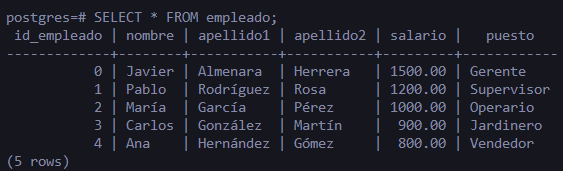
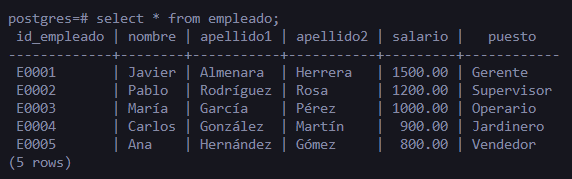
Añadidos los nuevos id's

diff --git a/README.md b/README.md
@@ -63,15 +63,16 @@ CREATE TYPE puesto_enum AS ENUM (
 );
 
 CREATE TABLE viveros (
-  id_vivero SERIAL PRIMARY KEY,
+  id_vivero VARCHAR(5) PRIMARY KEY,  -- Código de 5 dígitos
   latitud DECIMAL(9,6) NOT NULL CHECK (latitud >= -90 AND latitud <= 90),  -- Latitud válida
   longitud DECIMAL(9,6) NOT NULL CHECK (longitud >= -180 AND longitud <= 180),  -- Longitud válida
   nombre VARCHAR(100) NOT NULL
+  CONSTRAINT id_vivero_valido CHECK (id_vivero ~ '^V[0-9]{4}$')  -- Código de 5 dígitos
 );
 
 CREATE TABLE zona (
-  id_zona SERIAL,
-  id_vivero INT,
+  id_zona VARCHAR(5) CHECK (id_zona ~ '^Z[0-9]{4}$'),  -- Código de 5 dígitos
+  id_vivero VARCHAR(5) CHECK (id_vivero ~ '^V[0-9]{4}$'),  -- Código de 5 dígitos
   nombre VARCHAR(100) NOT NULL,
   latitud DECIMAL(9,6) NOT NULL CHECK (latitud >= -90 AND latitud <= 90),  -- Latitud válida
   longitud DECIMAL(9,6) NOT NULL CHECK (longitud >= -180 AND longitud <= 180),  -- Longitud válida
@@ -80,14 +81,15 @@ CREATE TABLE zona (
 );
 
 CREATE TABLE producto (
-  id_producto SERIAL PRIMARY KEY,
+  id_producto VARCHAR(5) PRIMARY KEY CHECK (id_producto ~ '^P[0-9]{4}$'),  -- Código de 5 dígitos
   cantidad INT CHECK(cantidad >= 0),
   precio DECIMAL(10,2) CHECK(precio > 0),
   nombre VARCHAR(100) NOT NULL
+
 );
 
 CREATE TABLE empleado (
-  id_empleado SERIAL PRIMARY KEY,
+  id_empleado VARCHAR(5) PRIMARY KEY CHECK (id_empleado ~ '^E[0-9]{4}$'),  -- Código de 5 dígitos
   nombre VARCHAR(100) NOT NULL,
   apellido1 VARCHAR(100) NOT NULL,
   apellido2 VARCHAR(100),
@@ -96,7 +98,7 @@ CREATE TABLE empleado (
 );
 
 CREATE TABLE telefono_empleados (
-  id_empleado INT,
+  id_empleado VARCHAR(5) CHECK (id_empleado ~ '^E[0-9]{4}$'),
   telefono VARCHAR(9) CHECK(LENGTH(telefono) = 9) PRIMARY KEY,
   FOREIGN KEY (id_empleado) REFERENCES empleado(id_empleado) ON DELETE CASCADE
 );
@@ -113,25 +115,25 @@ CREATE TABLE clientes_plus (
 );
 
 CREATE TABLE telefono_cliente (
-  dni VARCHAR(9),
+  dni VARCHAR(9) CHECK (dni ~ '^[0-9]{8}[A-Z]$'),
   telefono VARCHAR(9) CHECK(LENGTH(telefono) = 9) PRIMARY KEY,
   FOREIGN KEY (dni) REFERENCES clientes_plus(dni) ON DELETE CASCADE
 );
 
 CREATE TABLE pedido (
-  codigo SERIAL PRIMARY KEY,
-  id_empleado INT,
+  codigo VARCHAR(10) PRIMARY KEY CHECK (codigo ~ '^PE[0-9]{8}$'),
+  id_empleado VARCHAR(5) CHECK (id_empleado ~ '^E[0-9]{4}$'),
   fecha_realizacion DATE,
   precio_total DECIMAL(10,2),
-  dni VARCHAR(9),
+  dni VARCHAR(9) CHECK (dni ~ '^[0-9]{8}[A-Z]$'),
   FOREIGN KEY (id_empleado) REFERENCES empleado(id_empleado) ON DELETE CASCADE,
   FOREIGN KEY (dni) REFERENCES clientes_plus(dni) ON DELETE CASCADE
 );
 
 CREATE TABLE zona_producto (
-  id_zona INT,
-  id_vivero INT,
-  id_producto INT,
+  id_zona VARCHAR(5) CHECK (id_zona ~ '^Z[0-9]{4}$'),
+  id_vivero VARCHAR(5) CHECK (id_vivero ~ '^V[0-9]{4}$'),
+  id_producto VARCHAR(5) CHECK (id_producto ~ '^P[0-9]{4}$'),
   cantidad INT CHECK(cantidad >= 0),
   PRIMARY KEY (id_zona, id_vivero, id_producto),
   FOREIGN KEY (id_zona, id_vivero) REFERENCES zona(id_zona, id_vivero) ON DELETE CASCADE,
@@ -140,9 +142,9 @@ CREATE TABLE zona_producto (
 
 CREATE TABLE zona_empleado (
   id_trabajo SERIAL PRIMARY KEY,
-  id_zona INT,
-  id_vivero INT,
-  id_producto INT,
+  id_zona VARCHAR(5) CHECK (id_zona ~ '^Z[0-9]{4}$'),
+  id_vivero VARCHAR(5) CHECK (id_vivero ~ '^V[0-9]{4}$'),
+  id_producto VARCHAR(5) CHECK (id_producto ~ '^P[0-9]{4}$'),
   productividad DECIMAL(5,2) CHECK(productividad >= 0),
   puesto puesto_enum NOT NULL,  -- Usando el enumerado para especificar el puesto en la tabla zona_empleado
   fecha_inicial DATE NOT NULL,
@@ -156,13 +158,13 @@ CREATE TABLE zona_empleado (
 
 ### 4.1 SELECT de la tabla viveros
 
-![select vivero](./images/SELECT%20VIVEROS.png)
+![select vivero](./images/VIVERO.png)
 ### 4.2 SELECT de la tabla zona
 
-![select vivero](./images/SELECT%20ZONA.png)
+![select vivero](./images/ZONA.png)
 ### 4.3 SELECT de la tabla producto
 
-![select vivero](./images/SELECT%20PRODUCTO.png)
+![select vivero](./images/PRODUCTO.png)
 ### 4.4 SELECT de la tabla empleado
 
 ![select vivero](./images/EMPLEADO.png)
@@ -182,11 +184,11 @@ CREATE TABLE zona_empleado (
 
 ![select vivero](./images/PEDIDO.png)
 
-### 4.9 SELECT de la tabla zona_producto
+### 4.9 SELECT de la tabla zona_empleado
 
-![select vivero](./images/SELECT%20VIVEROS.png)
+![select vivero](./images/ZEMPLEADO.png)
 
-### 4.10 SELECT de la tabla zona_empleados
+### 4.10 SELECT de la tabla zona_productos
 
 ![select vivero](./images/image.png)
 
